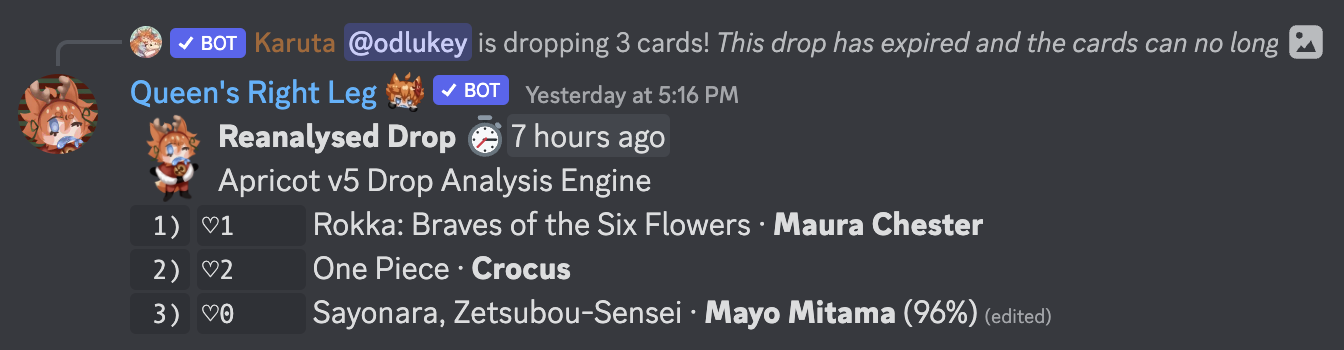
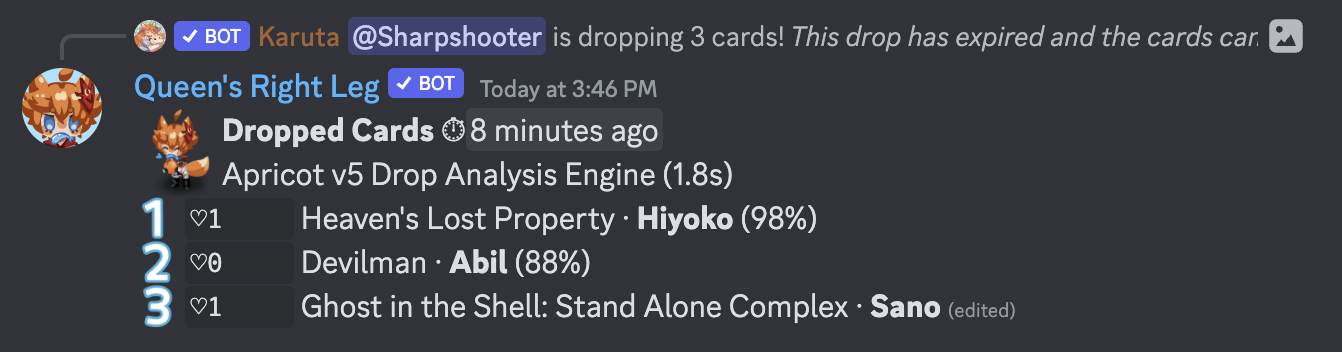
GITBOOK-356: change request with no subject merged in GitBook

Changed region(s): [[0.0, 0.0286, 1.0, 0.9429], [0.2139, 0.8286, 0.7943, 0.9429]]

diff --git a/karuta-utilities/card-collection-utilities/card-filter.md b/karuta-utilities/card-collection-utilities/card-filter.md
@@ -46,20 +46,20 @@ The following filters may only be available in certain utilities:
   (e.g. `f:t`, `framed=false`)\
   \[[Spreadsheet Utility](https://app.gitbook.com/s/0OfyDder0TDbYepM9qYh/\~/changes/uAvlG5KcG3JdsaiwvkPu/karuta-utilities/card-collection-utilities/spreadsheet-utility) only]
 * **Applied Frame ID** _(framed, frame, f)_\
-  __(e.g. `f:blossom`, `frame=tipsy`)\
+  (e.g. `f:blossom`, `frame=tipsy`)\
   \[[Spreadsheet Utility](https://app.gitbook.com/s/0OfyDder0TDbYepM9qYh/\~/changes/uAvlG5KcG3JdsaiwvkPu/karuta-utilities/card-collection-utilities/spreadsheet-utility) only]\
   (Note: This requires you to enter the frame ID of the frame you are looking for. For example: `Cherry Blossom Frame` is `blossom`. This filter is not strict, so you can usually guess the IDs with trial and error.)
 * **Dye Status** _(dyed, dye, d)_\
-  __(e.g. `d:t`, `dyed=false`)\
+  (e.g. `d:t`, `dyed=false`)\
   \[[Spreadsheet Utility](https://app.gitbook.com/s/0OfyDder0TDbYepM9qYh/\~/changes/uAvlG5KcG3JdsaiwvkPu/karuta-utilities/card-collection-utilities/spreadsheet-utility) only]
 * **Applied Dye Name/Code** _(dyed, dye, d)_\
-  __(e.g. `d:red`, `dye=$rlxzf`)\
+  (e.g. `d:red`, `dye=$rlxzf`)\
   \[[Spreadsheet Utility](https://app.gitbook.com/s/0OfyDder0TDbYepM9qYh/\~/changes/uAvlG5KcG3JdsaiwvkPu/karuta-utilities/card-collection-utilities/spreadsheet-utility) only]
 * **Morph Status** _(morphed, morph, m)_\
-  __(e.g. `m:t`, `morphed=false`)\
+  (e.g. `m:t`, `morphed=false`)\
   \[[Spreadsheet Utility](https://app.gitbook.com/s/0OfyDder0TDbYepM9qYh/\~/changes/uAvlG5KcG3JdsaiwvkPu/karuta-utilities/card-collection-utilities/spreadsheet-utility) only]
 * **Trim Status** _(trim, trimmed, tr)_\
-  __(e.g. `tr:t`, `trimmed=false`)\
+  (e.g. `tr:t`, `trimmed=false`)\
   \[[Spreadsheet Utility](https://app.gitbook.com/s/0OfyDder0TDbYepM9qYh/\~/changes/uAvlG5KcG3JdsaiwvkPu/karuta-utilities/card-collection-utilities/spreadsheet-utility) only]
 * **Price** _($, price)_\
   (e.g. `$>3`,`$=0`)\
@@ -71,7 +71,7 @@ The following filters may only be available in certain utilities:
   (e.g. `i:true`, `i=no`)\
   \[Not available in Bulk Pricer outside Spreadsheet Utility Mode]
 * **Drop Server ID** _(server, guild)_\
-  __(e.g. `server=[ID]`, guild!\[ID])\
+  (e.g. `server=[ID]`, guild!\[ID])\
   \[[Spreadsheet Utility](https://app.gitbook.com/s/0OfyDder0TDbYepM9qYh/\~/changes/OlSca5zoO5YwB4EQOnye/karuta-utilities/card-collection-utilities/spreadsheet-utility) only]\
   (Note: This filter supports larger than (>) and smaller than (<) operations, if you somehow have a use for that.)
 * **Grabber User ID** (_grabber_, _grabberid_)\
@@ -83,10 +83,10 @@ The following filters may only be available in certain utilities:
   \[[Spreadsheet Utility](https://app.gitbook.com/s/0OfyDder0TDbYepM9qYh/\~/changes/OlSca5zoO5YwB4EQOnye/karuta-utilities/card-collection-utilities/spreadsheet-utility) only]\
   (Note: This filter supports larger than (>) and smaller than (<) operations, if you somehow have a use for that.)
 * **Dropper Status** (_dropper)_\
-  __(e.g. `dropper=true`, `dropper=false`)\
+  (e.g. `dropper=true`, `dropper=false`)\
   \[[Spreadsheet Utility](https://app.gitbook.com/s/0OfyDder0TDbYepM9qYh/\~/changes/OlSca5zoO5YwB4EQOnye/karuta-utilities/card-collection-utilities/spreadsheet-utility) only]
 * **Grabber Status** (_grabber)_\
-  __(e.g. `grabber=true`, `grabber=false`)\
+  (e.g. `grabber=true`, `grabber=false`)\
   \[[Spreadsheet Utility](https://app.gitbook.com/s/0OfyDder0TDbYepM9qYh/\~/changes/OlSca5zoO5YwB4EQOnye/karuta-utilities/card-collection-utilities/spreadsheet-utility) only]
 * **Worker Stats** (_style_, _purity_, _quickness_, _toughness_, _vanity_)\
   (e.g. `style=S`, `purity:4`)\
@@ -102,7 +102,7 @@ The following filters may only be available in certain utilities:
   \[[Worker Viewer](https://app.gitbook.com/s/0OfyDder0TDbYepM9qYh/\~/changes/lOuYypnvc11Yr03fUtS4/karuta-utilities/card-collection-utilities/worker-viewer) in [Spreadsheet Utility Mode](https://app.gitbook.com/s/0OfyDder0TDbYepM9qYh/\~/changes/OlSca5zoO5YwB4EQOnye/karuta-utilities/card-collection-utilities/spreadsheet-utility) only.]\
   (Note: Using this filter in the wrong utility or mode will lead to no cards being returned.)
 * **Worker Mint Base Value** _(bv, basevalue)_\
-  __(e.g. `bv>100`, `bv:0`)\
+  (e.g. `bv>100`, `bv:0`)\
   \[[Worker Viewer](worker-viewer.md) only]
 * **Worker Current Base Value** (c_bv_, _currentbasevalue_)\
   (e.g. c_bv>100_, c_bv:0_)\

diff --git a/karuta-utilities/drop-analysis/drop-reanalysis-and-confidence-system.md b/karuta-utilities/drop-analysis/drop-reanalysis-and-confidence-system.md
@@ -1,9 +1,17 @@
-# Drop Reanalysis and Confidence System
+---
+description: How Leg can ensure his analyses are always correct.
+---
 
-Sometimes, characters might have percentages next to them.
+# Confidence System
+
+Sometimes, you may notice that characters in drop analysis messages have percentages next to them.
 
 <figure><img src="../../.gitbook/assets/image (1).png" alt=""><figcaption></figcaption></figure>
 
 This is actually Leg's Confidence system in play, which helps Leg with always correctly identifying characters.
 
-The percentage represents how confident Leg is in its guess for the character during reanalysis. This percentage doesn't exist for most cards, because Leg is 100% confident for those characters.
+The percentage represents how confident Leg is in its guess for the character during analysis. This percentage doesn't exist for most cards, because Leg is 100% confident for those characters.
+
+{% hint style="info" %}
+The Confidence System was previously exclusive to Premium Access in a second stage of analysis called Drop Reanalysis, but Drop Reanalysis has since been removed, with the Confidence System becoming available for all drops, regardless of Premium Access.
+{% endhint %}

diff --git a/bot-management/server-feature-configuration/list-of-features/reaction_shortcuts.md b/bot-management/server-feature-configuration/list-of-features/reaction_shortcuts.md
@@ -1,5 +1,5 @@
 ---
-description: Reaction Shortcuts
+description: Auto Reaction Shortcuts (Premium Only)
 ---
 
 # reaction\_shortcuts
@@ -9,3 +9,10 @@ This controls whether Leg will add reaction shortcuts to Karuta menus that have 
 Reaction Shortcuts can be clicked on, which immediately jumps you to the Leg utility without needing you to type in any commands.
 
 ![The moneybag emoji is an example of a Reaction Shortcut for "leg price"](<../../../.gitbook/assets/image (13).png>)
+
+{% hint style="info" %}
+Don't have Premium in your server? You can get reaction shortcut functionality by enabling "Allow self-added reaction shortcuts".
+
+\
+Keep in mind that enabling this may cause issues if your server has other bots with reaction features (e.g. Keqing), and you should probably [channeloverride](../channel-feature-override.md) this feature to off if you have announcement channels where users can add reactions.
+{% endhint %}

diff --git a/SUMMARY.md b/SUMMARY.md
@@ -26,7 +26,7 @@
   * [Normal Drop Mode](karuta-utilities/drop-analysis/normal-drop-mode.md)
   * [Massdrop Mode](karuta-utilities/drop-analysis/massdrop-mode.md)
   * [Which mode should I use?](karuta-utilities/drop-analysis/which-mode-should-i-use.md)
-  * [Drop Reanalysis and Confidence System](karuta-utilities/drop-analysis/drop-reanalysis-and-confidence-system.md)
+  * [Confidence System](karuta-utilities/drop-analysis/drop-reanalysis-and-confidence-system.md)
 * [Dye Utilities](karuta-utilities/dye-utilities/README.md)
   * [Update Dye Data](karuta-utilities/dye-utilities/update-dye-data.md)
   * [Tiled Dye List](karuta-utilities/dye-utilities/tiled-dye-list.md)
